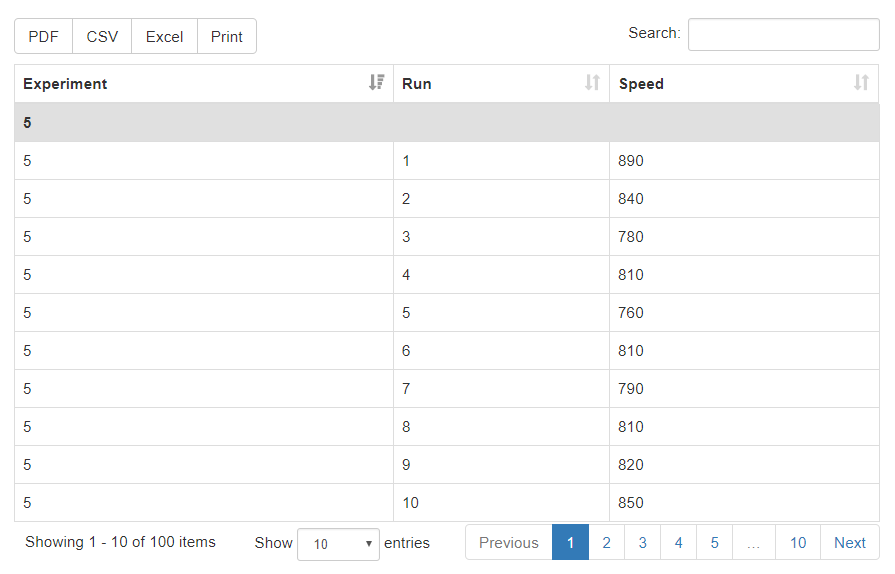
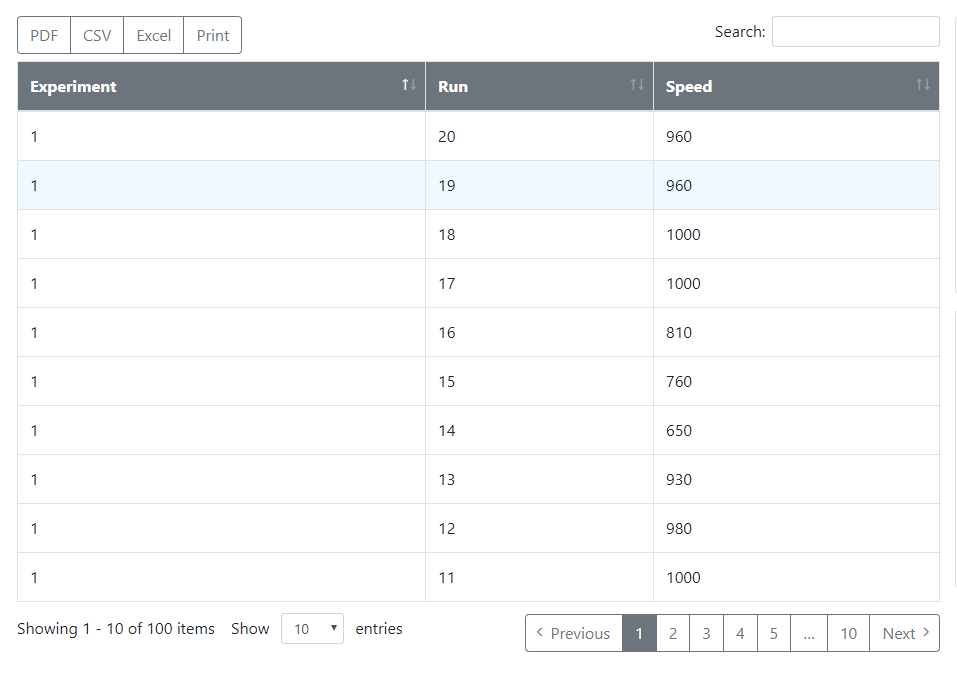
Updated readme

diff --git a/README.md b/README.md
@@ -1,13 +1,14 @@
 # dc-tableview
 `dc-tableview` is an interactive chart for dc.js library that presents data in tableview form.
 It was created because I was missing some functionality in the original table that comes with dc. I designed it so that it can easily replace dc.dataTable in your projects.
-It is build on top of well known **[DataTables](https://github.com/DataTables/Dist-DataTables)** jQuery plugin
+It is build on top of well known **[DataTables](https://github.com/DataTables/Dist-DataTables)** jQuery plugin.
 
 
 ## Table of contents
 
 - [Screenshots](#screenshots)
 - [Quick start](#quick-start)
+- [Testing](#testing)
 - [Usage](#usage)
 - [Methods](#methods)
 - [Examples](#examples)
@@ -15,7 +16,7 @@ It is build on top of well known **[DataTables](https://github.com/DataTables/Di
 
 ## Screenshots
 
-![Bootstrap styled version](https://rawgit.com/karenpommeroy/dc-tableview/master/assets/screen_1.png)
+![Bootstrap 4 styled version](https://rawgit.com/karenpommeroy/dc-tableview/master/assets/screen_1.png)
 
 ## Quick start
 Several quick start options are available:
@@ -35,9 +36,9 @@ Several quick start options are available:
  * **[dc-tableview-light-bs.min.js](https://raw.githubusercontent.com/karenpommeroy/dc-tableview/master/build/dc-tableview-light.min.js)**
 
 
-##### Install from Bower
+##### Install from Yarn
 ```bash
-bower install dc-tableview --save
+yarn install dc-tableview --save
 ```
 
 ##### Install from Npm
@@ -55,8 +56,22 @@ To clone the repository, use
 ```bash
 grunt build
 ```
+or to create production ready, minified versions:
+```bash
+grunt package
+```
 
 Done!
+
+## Testing
+Some basic integrity tests are implemented using jest.
+```bash
+npm test
+```
+```bash
+npm run test-debug #(verbose mode with in-browser source debugging)
+```
+Test results are printed to terminal by default but you can modify jest.config.js file to change that
 
 ## Usage
 
@@ -182,10 +197,38 @@ Get status or enable/disable paging size change combo box.
 chart.enablePagingSizeChange(true);
 ```
 
+##### bool enableScrolling(bool enable)
+Get status or enable/disable scrolling (instead of paging).
+```javascript
+chart.enableScrolling(true);
+```
+
+##### object scrollingOptions(object options)
+Get or set scrolling options.
+```javascript
+chart.scrollingOptions({
+    scrollY: string | number,
+    scrollCollapse: boolean,
+    deferRender: boolean
+});
+```
+
 ##### bool enableSearch(bool enable)
 Get status or enable/disable search (filter) input.
 ```javascript
 chart.enableSearch(true);
+```
+
+##### bool responsive(bool enable)
+Get status or enable/disable responsive features.
+```javascript
+chart.responsive(true);
+```
+
+##### bool responsive(bool enable)
+Get status or enable/disable responsive features.
+```javascript
+chart.responsive(true);
 ```
 
 ##### void endSlice(int slice)
@@ -228,7 +271,6 @@ chart.listeners({
     }
 });
 ```
-
 ##### void order(string appId)
 Gets or sets default sort type used in the chart. This will be used if order is not specified using **sortBy()** function.
 ```javascript
@@ -246,12 +288,6 @@ chart.pagingInfoText("Showing _START_ - _END_ of _TOTAL_ items");
 Get or set the name of the column that will be used as row id
 ```javascript
 chart.rowId(id");
-```
-
-##### string scrollY(string size)
-Get or set the value for height at which scroll should be visible.
-```javascript
-chart.scrollY("250px");
 ```
 
 ##### void showGroups (bool show)
@@ -289,7 +325,7 @@ chart.enableHeader(false)
 Click one of the links below to see dc-tableview in action:
 
 * [Customized table with default styling](https://rawgit.com/karenpommeroy/dc-tableview/master/examples/custom-table-default.html)
-* [Table styled with bootstrap working with other charts](https://rawgit.com/karenpommeroy/dc-tableview/master/examples/custom-table-bootstrap.html)
+* [Table styled with Bootstrap 4 working with other charts](https://rawgit.com/karenpommeroy/dc-tableview/master/examples/custom-table-bootstrap.html)
 
 All of above examples are available in the examples folder located in the repository.
 
